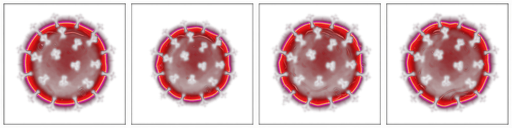
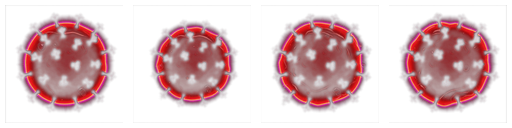
v92: remove the squares around units
Two sprite sheets shipped with opaque backgrounds baked into the art:
the basic pathogen on white (tinted orange by the material -> orange square)
and the cytokine tower on black. Keyed both: edge-connected flood fill for
the white one so interior highlights survive, luminance ramp for the glow.

Changed region(s): [[0.0, 0.0, 1.0, 1.0]]

diff --git a/index.html b/index.html
@@ -181,7 +181,7 @@
   <div>Organ: <span id="hud-lives">0</span></div>
   <div>Wave: <span id="hud-wave">0</span></div>
   <div id="hud-packs" style="font-size:13px;opacity:0.9;">Packs: —</div>
-  <div id="hud-ver">v91</div>
+  <div id="hud-ver">v92</div>
   <button id="btn-fullscreen" type="button" title="Toggle fullscreen"
     style="display:none;margin-top:6px;width:100%;min-height:34px;font:14px monospace;
            cursor:pointer;border-radius:6px;border:1px solid #666;background:#222;color:#fff;">
@@ -215,18 +215,18 @@
   <button id="btn-sell" type="button" class="game-btn">Sell</button>
   <div id="rotate-hint">Rotate your phone — bigger board in landscape</div>
 </div>
-<script src="three.min.js?v=91"></script>
-<script src="js/path.js?v=91"></script>
-<script src="js/grid.js?v=91"></script>
-<script src="js/lives.js?v=91"></script>
-<script src="js/enemies.js?v=91"></script>
-<script src="js/economy.js?v=91"></script>
-<script src="js/towers.js?v=91"></script>
-<script src="js/waves.js?v=91"></script>
-<script src="js/missions.js?v=91"></script>
-<script src="js/game.js?v=91"></script>
-<script src="js/presentation.js?v=91"></script><script src="js/ambient.js?v=91"></script>
-<script src="js/sfx.js?v=91"></script>
+<script src="three.min.js?v=92"></script>
+<script src="js/path.js?v=92"></script>
+<script src="js/grid.js?v=92"></script>
+<script src="js/lives.js?v=92"></script>
+<script src="js/enemies.js?v=92"></script>
+<script src="js/economy.js?v=92"></script>
+<script src="js/towers.js?v=92"></script>
+<script src="js/waves.js?v=92"></script>
+<script src="js/missions.js?v=92"></script>
+<script src="js/game.js?v=92"></script>
+<script src="js/presentation.js?v=92"></script><script src="js/ambient.js?v=92"></script>
+<script src="js/sfx.js?v=92"></script>
 <script>
 (function() {
   var canvas = document.getElementById('c');

diff --git a/sw.js b/sw.js
@@ -1,6 +1,6 @@
-var VER = 'v91';
-var CACHE_NAME = 'bastion-v91'; // literal for VERSTAMP; must match VER
-var N = '91';
+var VER = 'v92';
+var CACHE_NAME = 'bastion-v92'; // literal for VERSTAMP; must match VER
+var N = '92';
 var JS = ['path','grid','lives','enemies','economy','towers','waves','missions','game','presentation','ambient','sfx'];
 var NETFIRST = ['./','./index.html'].concat(JS.map(function(n){ return './js/'+n+'.js?v='+N; }));
 var IMMUTABLE = ['./three.min.js','./manifest.webmanifest','./icon-192.png','./icon-512.png','./apple-touch-icon.png'];
